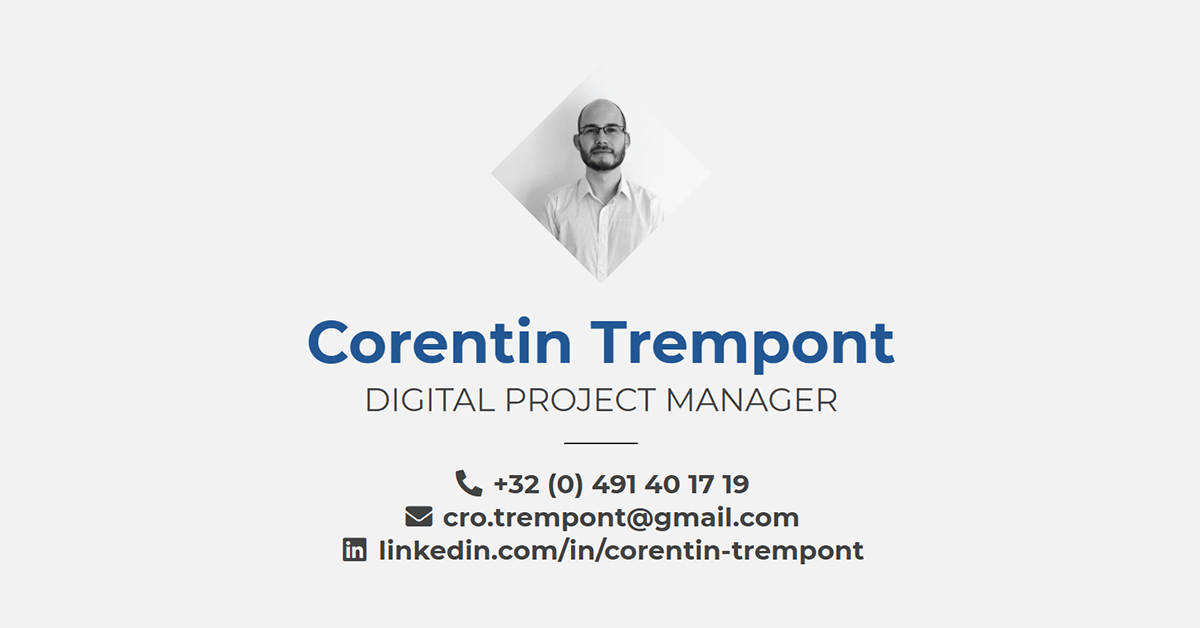
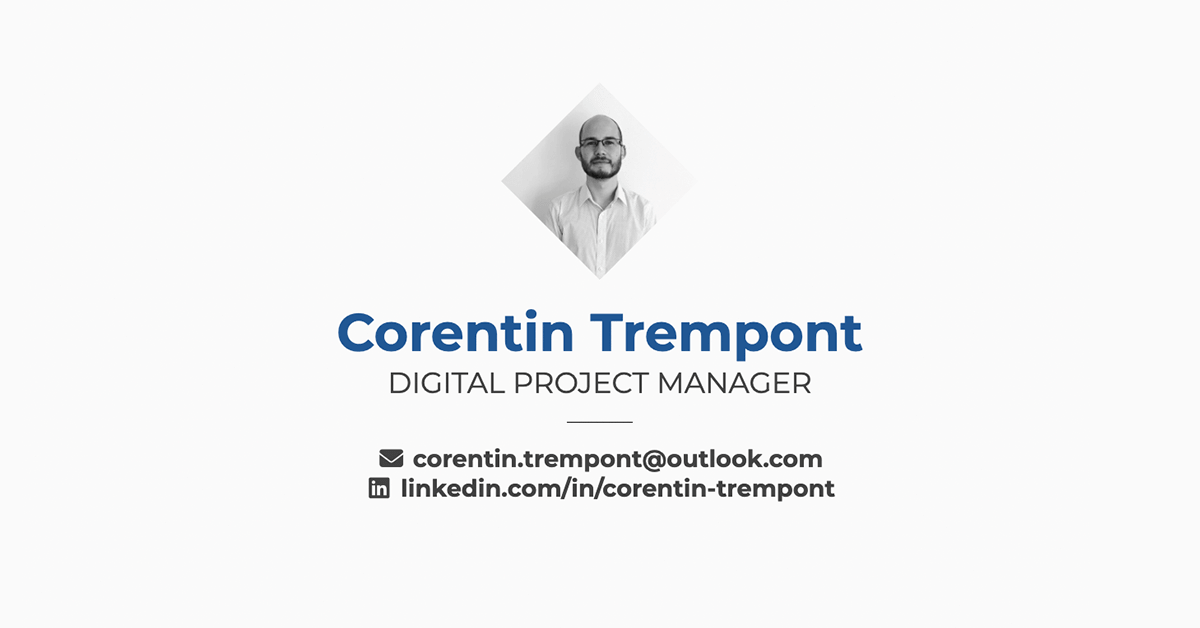
new social + cert

diff --git a/index.html b/index.html
@@ -361,7 +361,7 @@
     <div class="container">
       <div id="logo">
         <img class="good" src="./assets/profile.jpg" title="" alt="CT"/>
-        <a href="https://drive.google.com/file/d/1hh8Pe0Lg_vwgOCKh4-EigJ8WhFI_r-Xb/" target="_blank" title="I'm also available as a PDF!"><span><i class="fas fa-clipboard-check"></i><br />PDF</span></a>
+        <a href="https://drive.google.com/file/d/1hh8Pe0Lg_vwgOCKh4-EigJ8WhFI_r-Xb/view?usp=sharing" target="_blank" title="I'm also available as a PDF!"><span><i class="fas fa-clipboard-check"></i><br />PDF</span></a>
       </div>
 
       <div id="infos">
@@ -463,22 +463,22 @@
 
       <div class="section_block">
         <h4 class="block_subtitle"><span class="second_color">+</span>&nbsp;<span data-translate="certifications.blocks.0.title">Microsoft Azure&nbsp;Fundamentals (<a href="https://drive.google.com/file/d/1AVrdOdDpxYTClBT6Zz5qb5pcxq4ajwQz/view?usp=sharing" target="_blank">AZ-900</a>,&nbsp;<a href="https://drive.google.com/file/d/1EpHnoSQqD3VA83vRb9fVUZCU0HzHO1V_/view?usp=sharing" target="_blank">AI-900</a>,&nbsp;<a href="https://drive.google.com/file/d/1VsACNTDeAFwACDO1bG0bVejsE1DVkZ7L/view?usp=sharing" target="_blank">DP-900</a>)</span>&nbsp;<span class="second_color">+</span></h4>
-        <h5 class="block_info"><span data-translate="certifications.blocks.0.company">Microsoft</span> | <span data-translate="certifications.blocks.0.dates">2022</span></h5>
+        <h5 class="block_info"><span data-translate="certifications.blocks.0.company">Microsoft</span><!-- | <span data-translate="certifications.blocks.0.dates">2022</span> --></h5>
       </div>
 
       <div class="section_block">
         <h4 class="block_subtitle"><span class="second_color">+</span>&nbsp;<span data-translate="certifications.blocks.1.title"><a href="https://drive.google.com/file/d/1FYthGa2bysox9FGtcpP2KynPOp-T4uHp/view?usp=sharing" target="_blank">Digital&nbsp;Marketing&nbsp;Specialist</a> <span class="second_color">/</span> <a href="https://drive.google.com/file/d/10AOPvwURVeEWI8wAcKJ7FzTbeDua2Lci/view?usp=sharing" target="_blank">Web&nbsp;Developer</a> <span class="second_color">/</span> <a href="https://drive.google.com/file/d/16x_QsK8pi3mPaRPWCT3OPWcy1V74_3XW/view?usp=sharing" target="_blank">Graphic&nbsp;Designer</a></span>&nbsp;<span class="second_color">+</span></h4>
-        <h5 class="block_info"><span data-translate="certifications.blocks.1.company">LinkedIn</span> | <span data-translate="certifications.blocks.1.dates">2020&nbsp;-&nbsp;2021</span></h5>
+        <h5 class="block_info"><span data-translate="certifications.blocks.1.company">LinkedIn</span><!-- | <span data-translate="certifications.blocks.1.dates">2020&nbsp;-&nbsp;2021</span> --></h5>
       </div>
 
       <div class="section_block">
         <h4 class="block_subtitle"><span class="second_color">+</span>&nbsp;<span data-translate="certifications.blocks.2.title"><a href="https://drive.google.com/file/d/1jMBWZKzWDvwms95oE-mIGFIGUHAn7O7Q/view?usp=sharing" target="_blank">Digital&nbsp;Buyer Learning&nbsp;Path (Facebook&nbsp;Ads)</a></span>&nbsp;<span class="second_color">+</span></h4>
-        <h5 class="block_info"><span data-translate="certifications.blocks.2.company">Facebook</span> | <span data-translate="certifications.blocks.2.dates">2019</span></h5>
+        <h5 class="block_info"><span data-translate="certifications.blocks.2.company">Facebook</span><!-- | <span data-translate="certifications.blocks.2.dates">2019</span> --></h5>
       </div>
 
       <div class="section_block">
-        <h4 class="block_subtitle"><span class="second_color">+</span>&nbsp;<span data-translate="certifications.blocks.3.title"><a href="https://analytics.google.com/analytics/academy/certificate/IXN6sX4HQo2CkF2LoErRLg" target="_blank">Google&nbsp;Analytics for Beginners</a></span>&nbsp;<span class="second_color">+</span></h4>
-        <h5 class="block_info"><span data-translate="certifications.blocks.3.company">Google</span> | <span data-translate="certifications.blocks.3.dates">2017</span></h5>
+        <h4 class="block_subtitle"><span class="second_color">+</span>&nbsp;<span data-translate="certifications.blocks.3.title"><a href="https://drive.google.com/file/d/14IK-aRZapWruozoozQt0WOJjnMYhnm-N/view?usp=sharing" target="_blank">Google&nbsp;Analytics for Beginners</a> <span class="second_color">/</span> <a href="https://drive.google.com/file/d/1hoOG1qQd1NLA51U-zOna03y_xHFKjWRF/view?usp=sharing" target="_blank">Google Tag&nbsp;Manager Fundamentals</a></span>&nbsp;<span class="second_color">+</span></h4>
+        <h5 class="block_info"><span data-translate="certifications.blocks.3.company">Google</span><!--  | <span data-translate="certifications.blocks.3.dates">2017</span> --></h5>
       </div>
     </div>
   </div>
